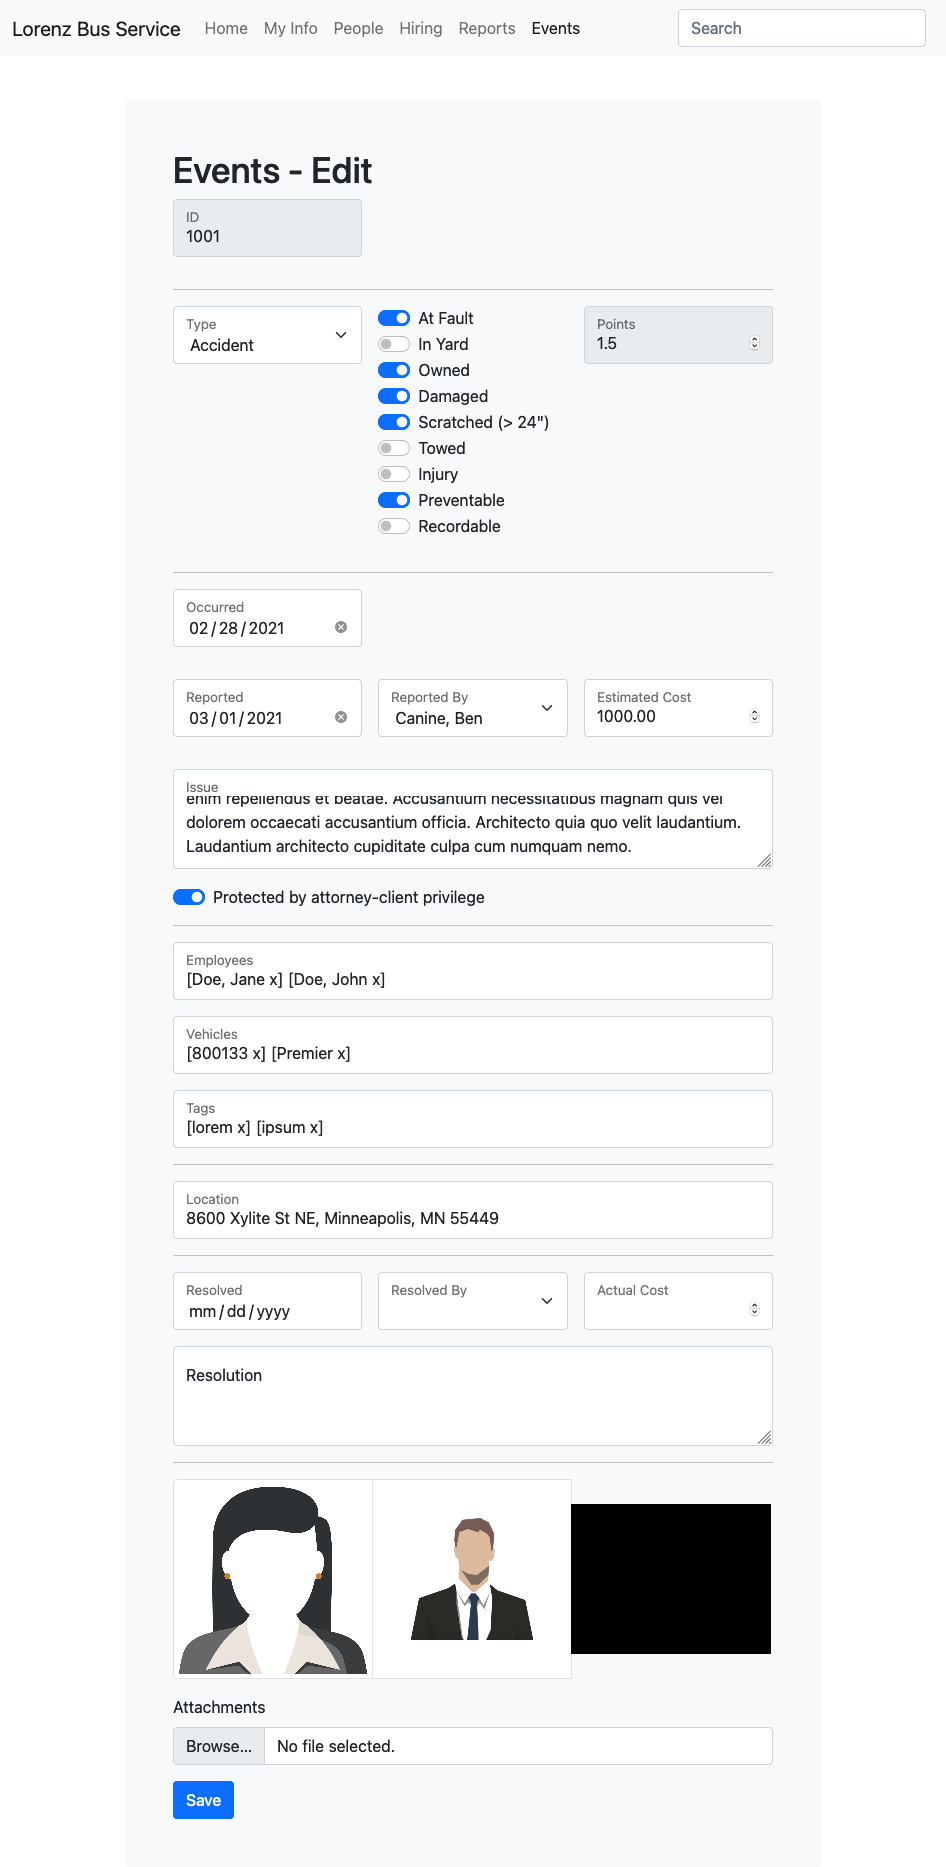
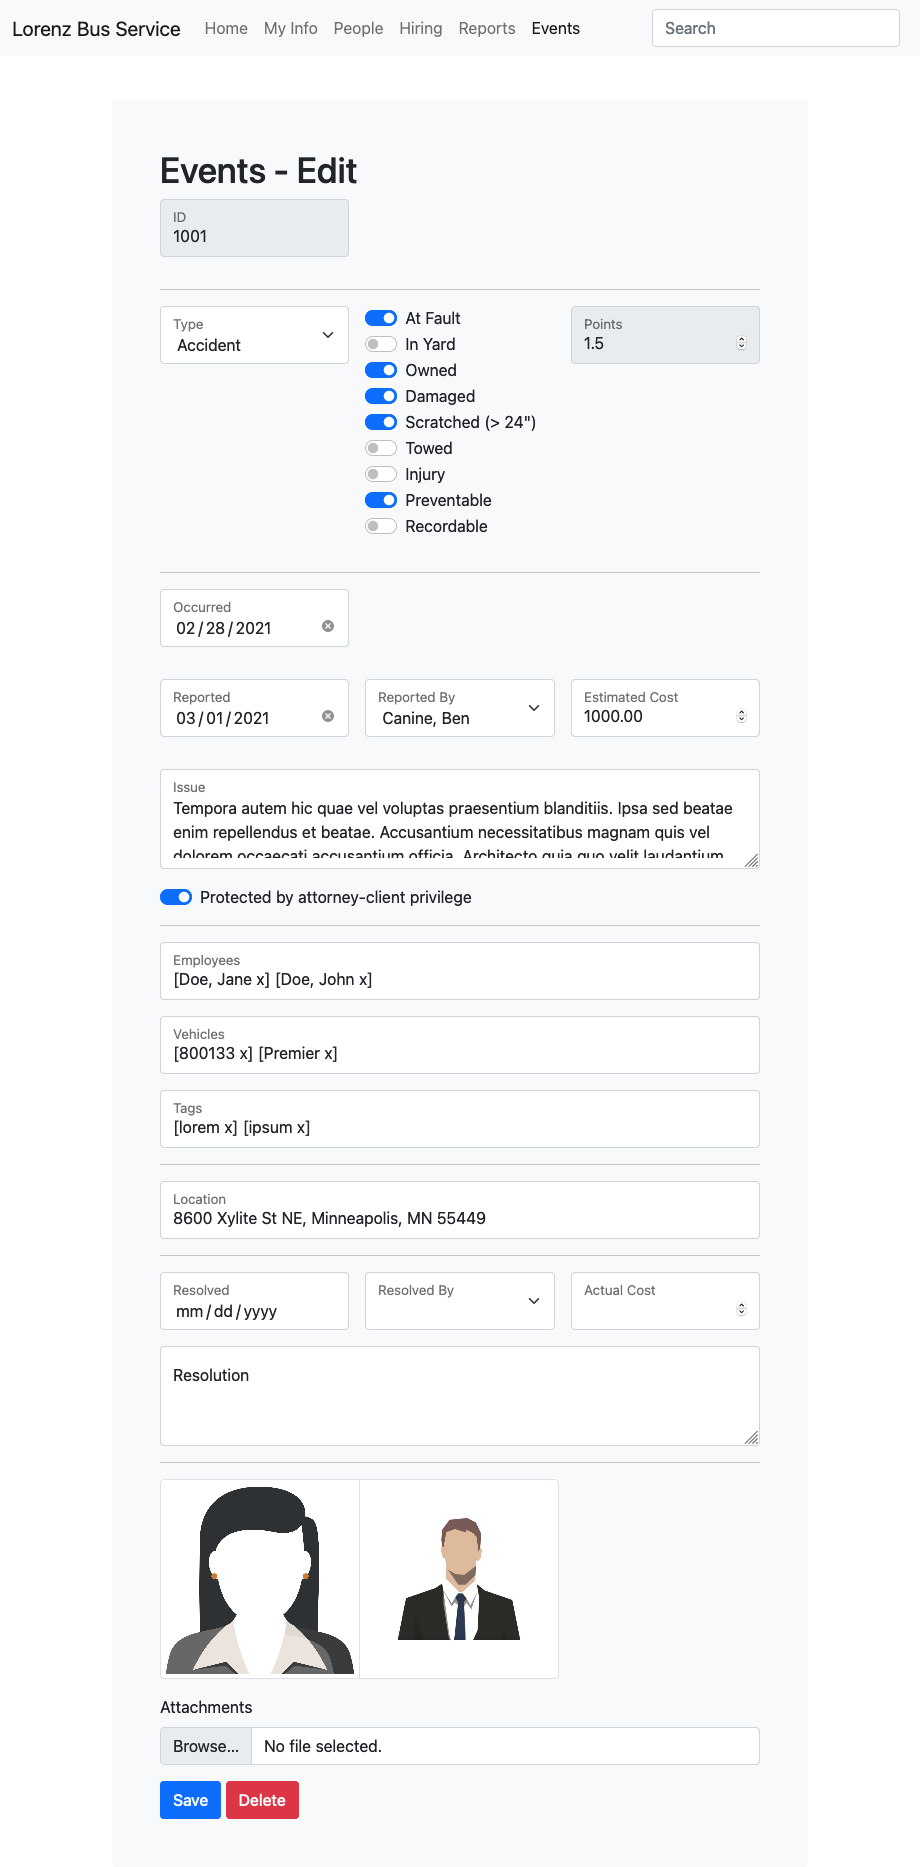
adding delete button

diff --git a/Event.Edit.html b/Event.Edit.html
@@ -327,7 +327,8 @@
           </div>
 
           <button type="submit" class="btn btn-primary">Save</button>
-  
+          <button type="submit" class="btn btn-danger">Delete</button>
+
         </form>
     
 
